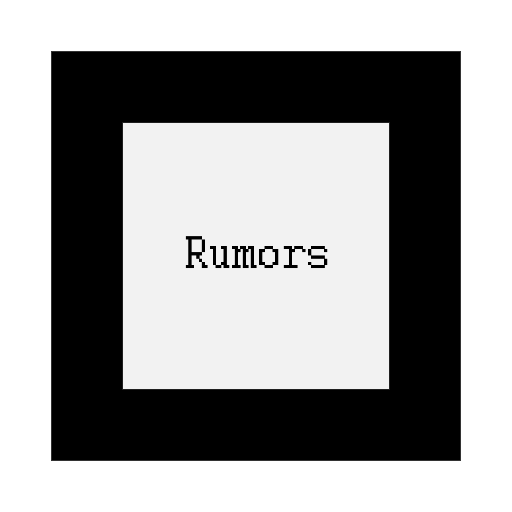
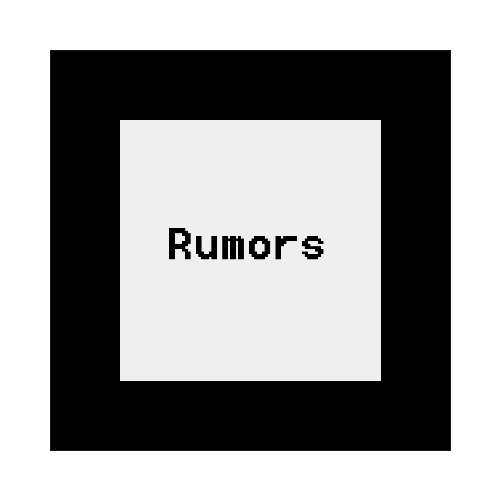
testing text marker

Changed region(s): [[0.3293, 0.4491, 0.6587, 0.5389], [0.2395, 0.2395, 0.2695, 0.2695]]

diff --git a/index.html b/index.html
@@ -395,7 +395,7 @@
         <!-- rumors -->
         <a-marker 
         type='pattern' 
-        url='https://arjs-cors-proxy.herokuapp.com/https://raw.githack.com/carolina-ar-vr/FranklinARGallery/master/assets/patts/rumors.patt'
+        url='https://arjs-cors-proxy.herokuapp.com/https://raw.githack.com/carolina-ar-vr/FranklinARGallery/master/assets/patts/rumorstext.patt'
         raycaster="objects: .clickable"
         emitevents="true"
         cursor="fuse: false; rayOrigin: mouse;"
@@ -406,12 +406,12 @@
           gesture-handler
           position="0 1.5 0"
           scale="0.8 0.8 0.8"
-          rotation="90 180 90"
+          rotation="90 180 0"
           gltf-model="https://arjs-cors-proxy.herokuapp.com/https://raw.githack.com/carolina-ar-vr/FranklinARGallery/erevis/assets/models/frame/scene.gltf"
           >
-            <a-image src="https://arjs-cors-proxy.herokuapp.com/https://raw.githack.com/carolina-ar-vr/FranklinARGallery/master/assets/images/artist-images/bath.jpg"
-            height="1.8"
-            rotation="0 0 -90"
+            <a-image src="https://arjs-cors-proxy.herokuapp.com/https://raw.githack.com/carolina-ar-vr/FranklinARGallery/master/assets/images/artist-images/lantern-art.jpg"
+            width="1.8"
+            rotation="180 0 180"
             >
             </a-image> 
           </a-entity>
